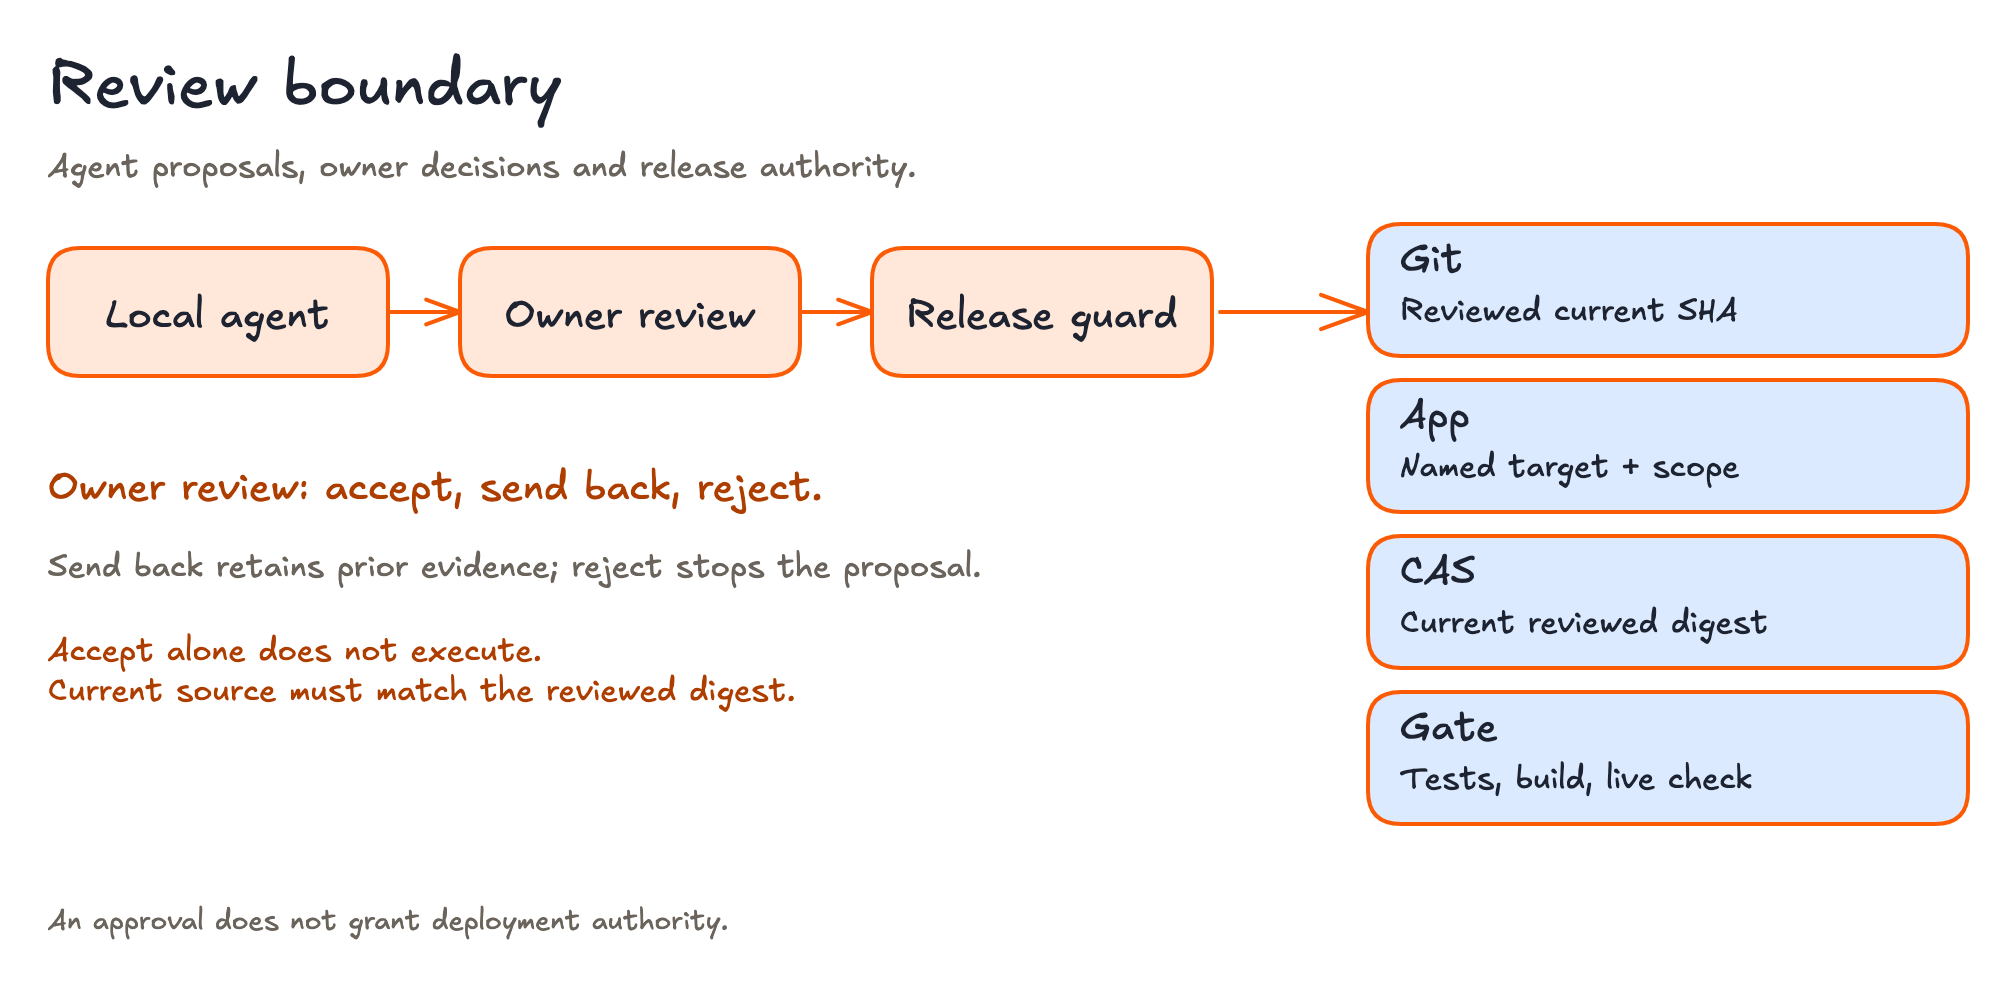
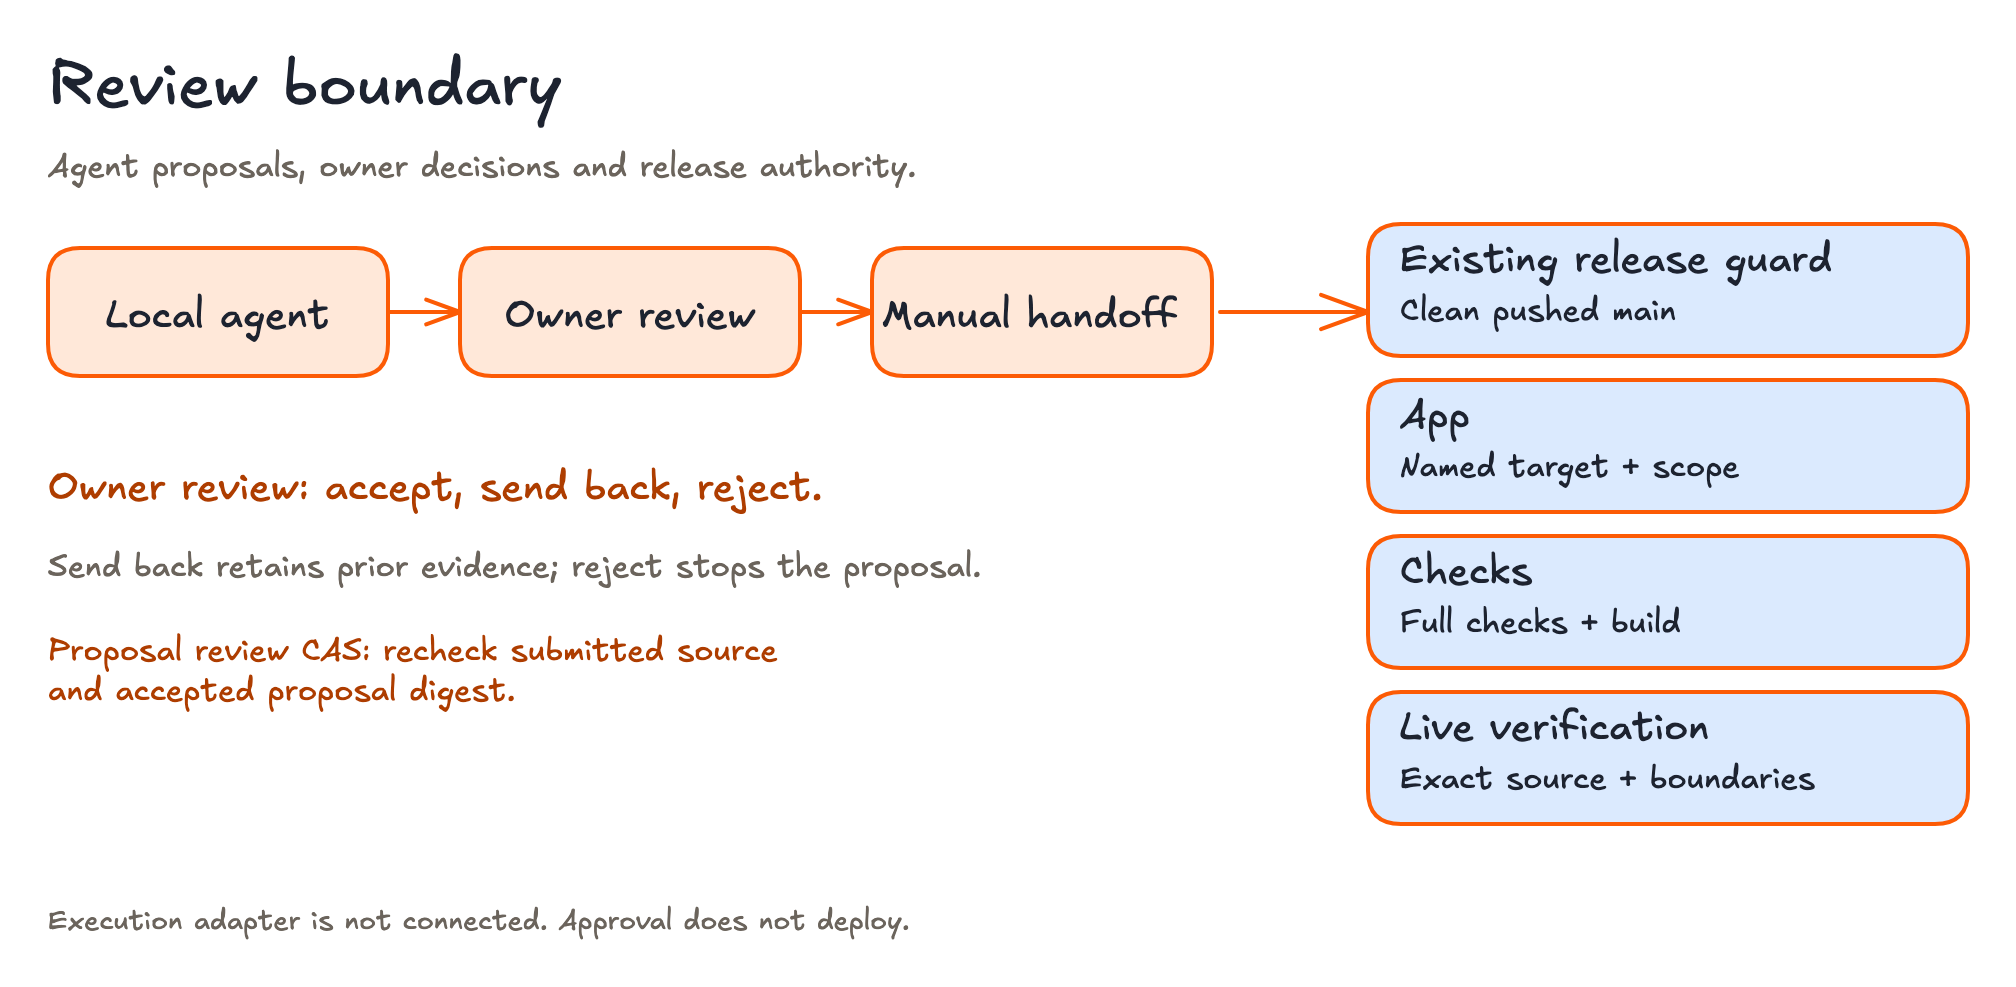
Separate proposal review from manual release authority in published diagrams

diff --git a/src/lib/diagram-atlas.ts b/src/lib/diagram-atlas.ts
@@ -28,15 +28,15 @@ export const diagramAtlas: readonly AtlasDiagram[] = [
     name: 'agent-approval-boundary',
     assetName: 'agent-approval-boundary-20261025-model',
     imageWidth: 2016, imageHeight: 987,
-    title: 'Local agent → scoped proposal → human review → execution',
-    alt: 'A local agent inspects an authorised workspace and returns a reviewable proposal. A signed-in human accepts, sends back with notes or rejects it. Execution uses the existing release guard and requires the reviewed source, app scope, current approval digest and checks. The agent grant cannot approve, deploy, merge, spend, read secrets or change access.',
+    title: 'Local agent → human review → separate release handoff',
+    alt: 'A local agent inspects an authorised workspace and returns a reviewable proposal. A signed-in human accepts, sends back with notes or rejects it. Proposal review rechecks the submitted source and accepted proposal digest. A manual handoff leads to the existing release guard with clean pushed main, app scope, checks and live verification. The execution adapter is not connected. The agent grant cannot approve, deploy, merge, spend, read secrets or change access.',
     caption: 'Revised through the local LDraw MCP by a Codex session, then curated for readable publication. Approval and execution remain separate actions.',
     usedOn: [{ label: 'Agent entry', href: '/agent' }, { label: 'Architecture', href: '/architecture#ownership' }],
     steps: [
       { title: 'Local agent', detail: 'Uses the owner’s machine, model and selected workspace under a read-only scope.' },
       { title: 'Scoped proposal', detail: 'Records source identity, cited evidence, risk, unknowns and one bounded change.' },
       { title: 'Human review', detail: 'Accept, send back with notes, or reject. Returning work preserves prior findings, links and versions.' },
-      { title: 'Execution boundary', detail: 'The existing release path, exact source and environment, reversible checks and independent verification. No self-approval, stale approval or duplicate execution.' },
+      { title: 'Execution boundary', detail: 'Approval does not execute. The execution adapter is not connected; a separate manual handoff uses the existing clean pushed-main release path, scoped environment, checks and live verification.' },
     ],
   },
   {

diff --git a/docs/evidence/ldraw-model-20261025/README.md b/docs/evidence/ldraw-model-20261025/README.md
@@ -43,7 +43,12 @@ PNG pixels and curated the authored scenes before publishing: removed duplicate
 preset explanations, enlarged tiny labels, re-centred changed text and used the
 accessible darker orange for text on white. The review diagram names release
 requirements instead of the preset's irrelevant generic storage/Queues example.
-No fake deployed architecture or new brand is published.
+Independent source review caught an overclaim in the original model scene: the
+existing release guard does not consume an accepted agent-proposal digest. The
+corrected scene and text show proposal-review CAS separately from a manual
+handoff to clean pushed-main deployment, and explicitly label the execution
+adapter unconnected. The corrected PNG and all eight page views were rendered
+and reviewed again. No fake deployed architecture or new brand is published.
 
 Versioned editable sources, real PNG and font-embedded SVG are together under
 `public/diagrams/ldraw/*-20261025-model.*`. Retained selected IDs/text reproduce
